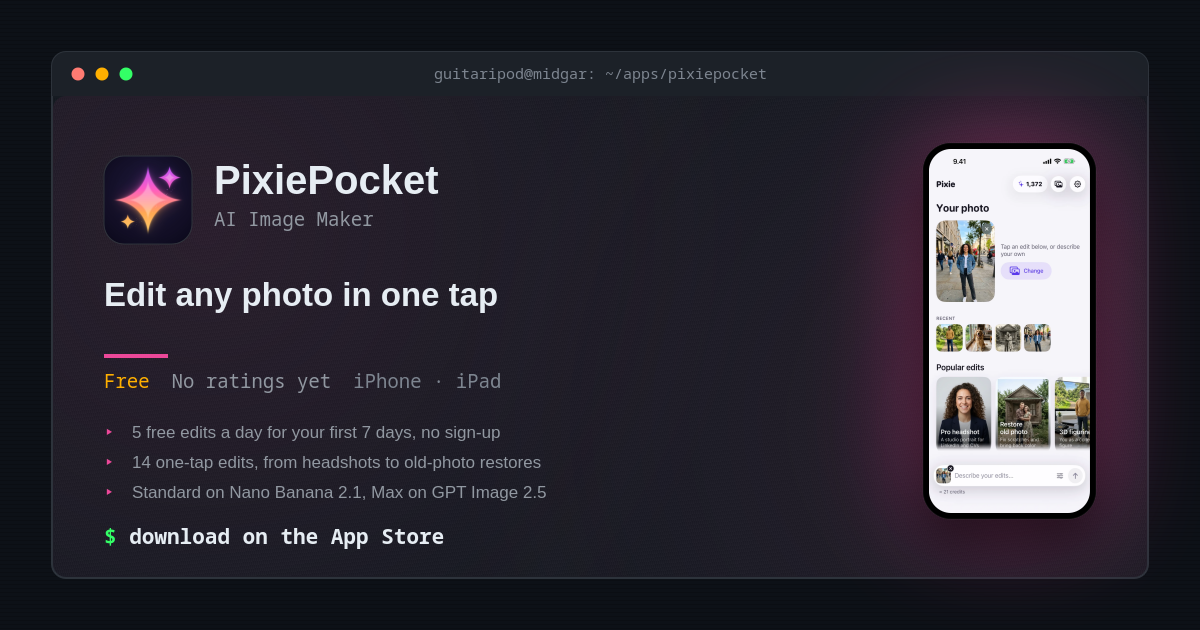
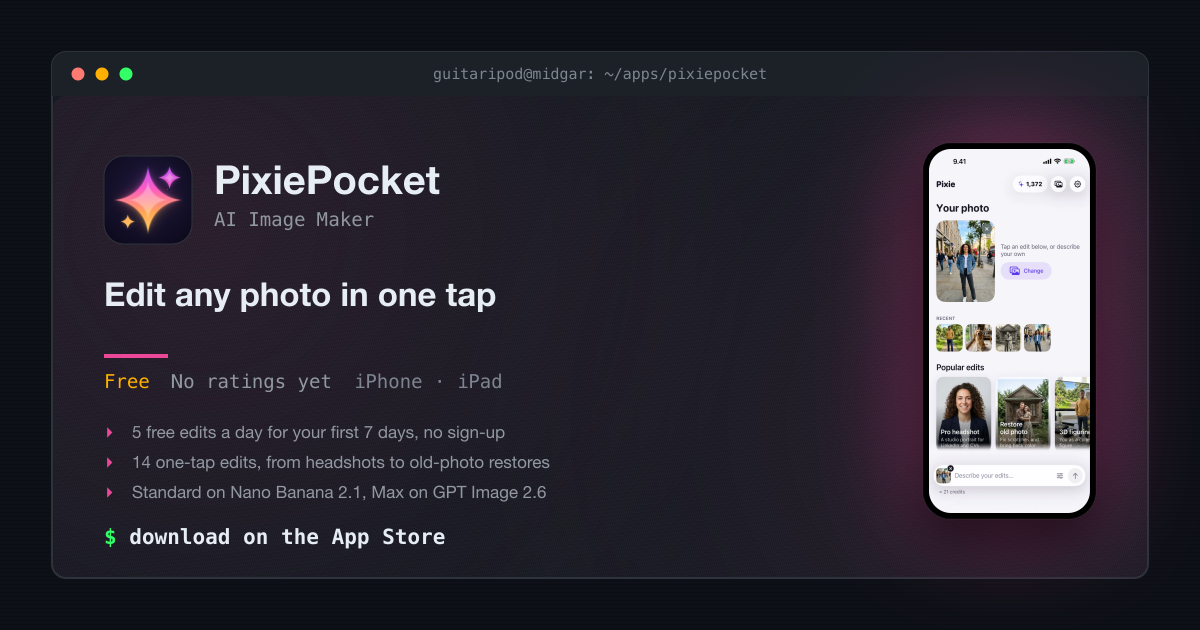
Say Max runs on GPT Image 2.6 on PixiePocket's landing page, its /apps highlight and its OG image

diff --git a/internal/appstore/fetch.go b/internal/appstore/fetch.go
@@ -159,7 +159,7 @@ var appEnhancements = map[int]struct {
 		PrimaryColor: "#EC4899",
 		Features: []string{
 			"14 one-tap edits, from headshots to old-photo restores",
-			"Standard on Nano Banana 2.1, Max on GPT Image 2.5",
+			"Standard on Nano Banana 2.1, Max on GPT Image 2.6",
 			"Edit packs that never expire, or Plus for 60 edits a week",
 		},
 	},
